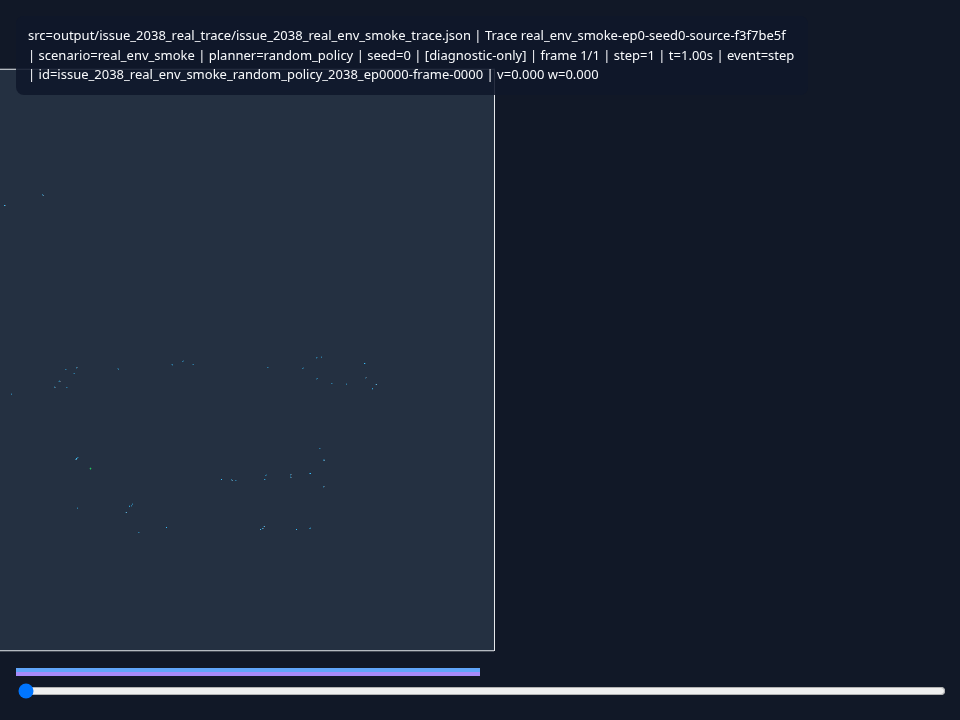
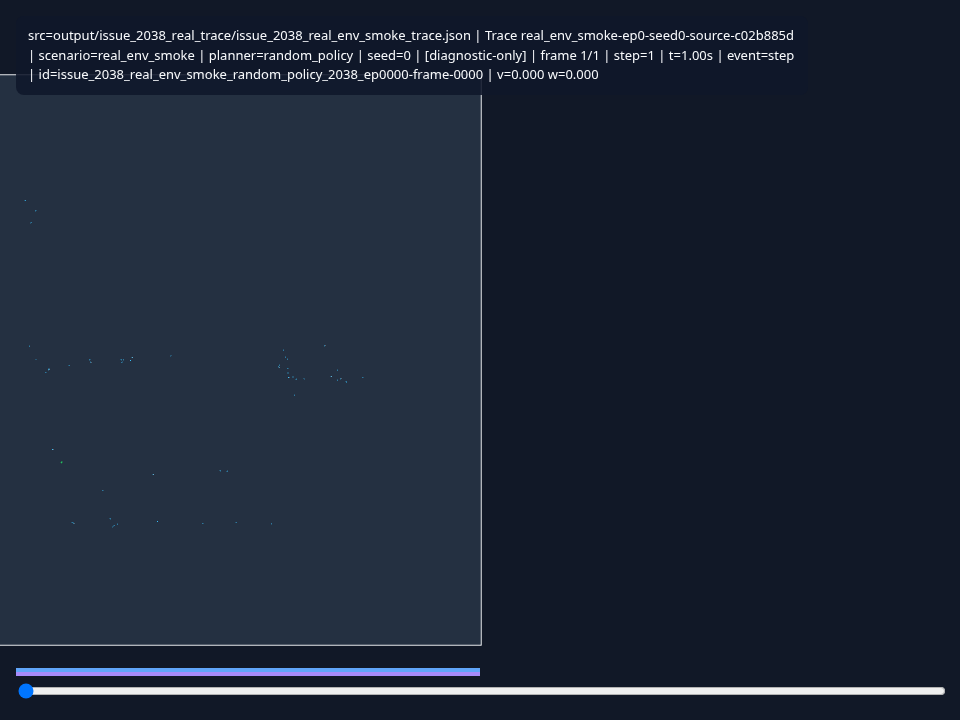
docs: tighten trace viewer smoke provenance

Changed region(s): [[0.0, 0.1222, 0.5312, 0.9167], [0.75, 0.0306, 0.8438, 0.0611], [0.0, 0.0917, 0.0312, 0.1222]]

diff --git a/docs/context/issue_2038_real_trace_viewer_smoke.md b/docs/context/issue_2038_real_trace_viewer_smoke.md
@@ -12,13 +12,15 @@ checked with the browser pixel smoke. The viewer rendered a nonblank scene from 
 real-environment trace:
 
 - browser smoke: passed
-- screenshot classification: 349898 non-background pixels, 510 distinct colors
+- screenshot classification: 339670 non-background pixels, 590 distinct colors
 - evidence screenshot:
   [issue_2038_real_env_trace_viewer.png](evidence/issue_2038_real_env_trace_viewer.png)
 
 The linked screenshot is a promoted copy of
 `output/validation/issue_2038_real_env_trace_viewer.png` from the generated real-environment trace
 run, copied into `docs/context/evidence/` so the compact visual proof survives worktree cleanup.
+Promoted screenshot checksum:
+`sha256:2f496bc4ea3986e4b2620ff695049300cd199988473c96ff44d2340e88cdee8b`.
 
 This is diagnostic visualization evidence only. It does not make benchmark, planner-quality,
 paper-facing, or performance claims.
@@ -32,9 +34,11 @@ uv run python - <<'PY'
 from pathlib import Path
 
 from robot_sf.gym_env.environment_factory import JsonlRecordingOptions, make_robot_env
+from robot_sf.gym_env.unified_config import RobotSimulationConfig
 
 out = Path("output/issue_2038_real_recording")
 out.mkdir(parents=True, exist_ok=True)
+config = RobotSimulationConfig(map_id="uni_campus_big")
 jsonl_opts = JsonlRecordingOptions(
     enabled=True,
     recording_dir=str(out),
@@ -43,8 +47,15 @@ jsonl_opts = JsonlRecordingOptions(
     algorithm_name="random_policy",
     recording_seed=2038,
 )
-env = make_robot_env(jsonl_recording_options=jsonl_opts, recording_enabled=True, debug=False)
+env = make_robot_env(
+    config=config,
+    seed=2038,
+    jsonl_recording_options=jsonl_opts,
+    recording_enabled=True,
+    debug=False,
+)
 try:
+    env.action_space.seed(2038)
     obs, info = env.reset(seed=2038)
     for _ in range(5):
         action = env.action_space.sample()
@@ -88,7 +99,7 @@ uv run python scripts/validation/smoke_threejs_viewer_browser.py \
 Observed result:
 
 ```text
-Three.js browser smoke passed: 349898 non-background pixels, 510 distinct colors.
+Three.js browser smoke passed: 339670 non-background pixels, 590 distinct colors.
 ```
 
 Promote the compact screenshot used by this note:
@@ -96,6 +107,7 @@ Promote the compact screenshot used by this note:
 ```bash
 cp output/validation/issue_2038_real_env_trace_viewer.png \
   docs/context/evidence/issue_2038_real_env_trace_viewer.png
+sha256sum docs/context/evidence/issue_2038_real_env_trace_viewer.png
 ```
 
 ## Fixture Cross-Check
@@ -125,7 +137,9 @@ the main #2038 real-environment proof.
   positions in `simulation_trace_export.v1`.
 - The generated viewer rendered a visible scene in headless Chromium and wrote a reviewable
   screenshot.
-- The scene still uses trace-viewer auto bounds with no SVG map geometry, obstacles, or zones.
+- The scene still uses trace-viewer auto bounds with no SVG map geometry, obstacles, or zones; this
+  reflects the current viewer/export path used for this smoke, not evidence that the source
+  environment lacks those concepts.
 - The raw JSONL recording, converted trace, viewer directory, and validation screenshot under
   `output/` are disposable local artifacts. The compact screenshot above is the durable review
   evidence.